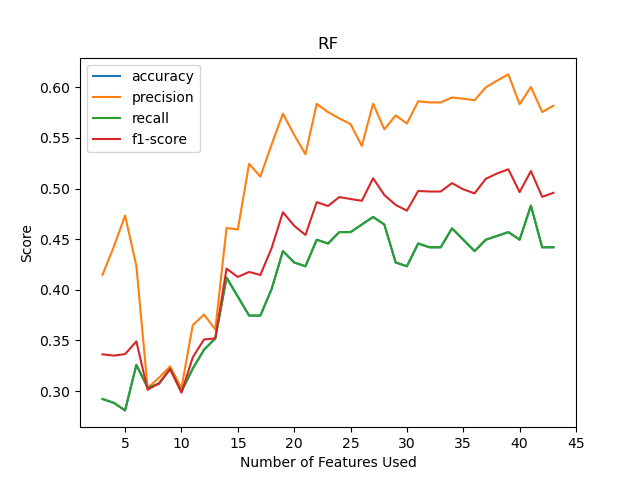
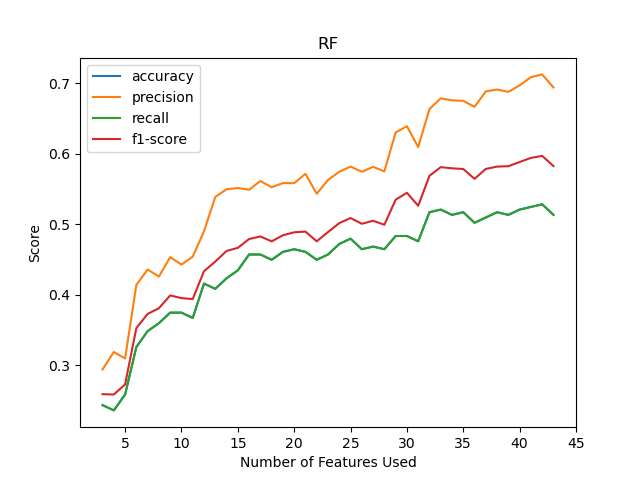
Update LogReg

diff --git a/logistic_regression.py b/logistic_regression.py
@@ -51,21 +51,23 @@ X, y = oversample.fit_resample(X, y)
 #list of features in order of importance determined by SBS feature selection
 sbs_features = ['sex', 'age', 'address', 'famsize', 'Pstatus', 'Medu', 'Fedu',
        'traveltime', 'studytime', 'failures', 'schoolsup', 'famsup', 'paid',
-       'activities', 'higher', 'internet', 'romantic', 'famrel', 'freetime',
-       'goout', 'Dalc', 'health', 'Mjob_at_home', 'Mjob_health', 'Mjob_other',
-       'Mjob_services', 'Fjob_at_home', 'Fjob_teacher', 'reason_course',
-       'reason_home', 'reason_other', 'reason_reputation', 'guardian_mother']
+       'nursery', 'higher', 'internet', 'romantic', 'famrel', 'freetime',
+       'goout', 'Dalc', 'Walc', 'health', 'absences', 'Mjob_services',
+       'Mjob_teacher', 'Fjob_at_home', 'Fjob_services', 'Fjob_teacher',
+       'reason_home', 'reason_other', 'guardian_father', 'guardian_mother']
 
 
 #list of features in order of importance determined by RF feature selection
-rf_features = ['absences', 'health', 'Medu', 'freetime', 'age', 'goout', 'famrel', 
-               'Fedu', 'Walc', 'studytime', 'nursery', 'failures', 'Mjob_other',                      
-               'famsup', 'paid', 'Fjob_other', 'sex', 'famsize', 'guardian_mother', 
-               'activities', 'traveltime', 'Dalc', 'romantic', 'reason_course', 'internet',
-               'Mjob_services', 'address', 'Pstatus', 'reason_reputation', 'schoolsup',
-               'Fjob_services', 'guardian_father', 'reason_home', 'school', 'Mjob_teacher', 
-               'Mjob_at_home', 'Mjob_health', 'Fjob_teacher', 'reason_other', 'Fjob_at_home', 
-               'higher', 'guardian_other', 'Fjob_health']      
+rf_features = ['reason_home', 'Fjob_at_home', 'age', 'Fjob_other',
+               'Mjob_at_home', 'Mjob_other', 'Fedu', 'activities',
+               'failures', 'internet', 'address', 'health', 'freetime',
+               'Walc', 'Dalc', 'nursery', 'reason_course', 'Fjob_teacher',
+               'romantic', 'paid', 'traveltime', 'famsize', 'studytime',
+               'sex', 'Pstatus', 'Medu', 'Fjob_health', 'reason_reputation',
+               'schoolsup', 'famrel', 'Fjob_services', 'guardian_father',
+               'scores', 'famsup', 'Mjob_services', 'guardian_mother',
+               'higher', 'Mjob_teacher', 'guardian_other', 'Mjob_health',
+               'absences', 'goout', 'reason_other']    
   
 
 X_train, X_test, y_train, y_test = train_test_split(X, y, test_size = 0.3,
@@ -187,8 +189,8 @@ for name, features in zip(["RF", "SBS"], [rf_features, sbs_features]):
 
 
 #Create final model and confusion matrix
-X_train_new = X_train[X_train.columns.intersection(rf_features[:18])]
-X_test_new = X_test[X_test.columns.intersection(rf_features[:18])]
+X_train_new = X_train[X_train.columns.intersection(rf_features)]
+X_test_new = X_test[X_test.columns.intersection(rf_features)]
 
 X_train_std = stdsc.fit_transform(X_train_new)
 X_test_std = stdsc.transform(X_test_new)
